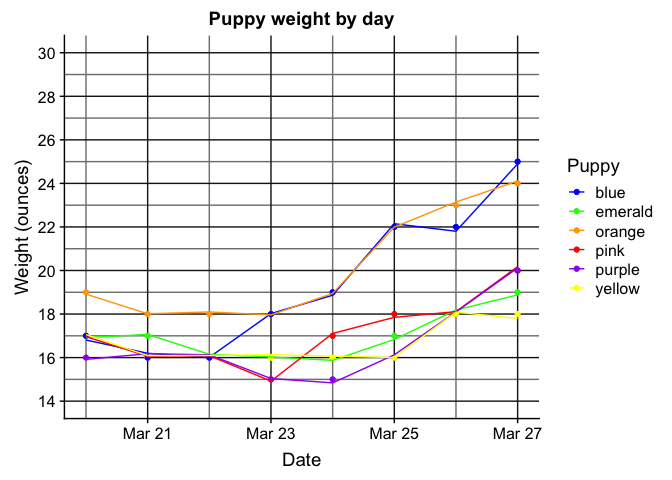
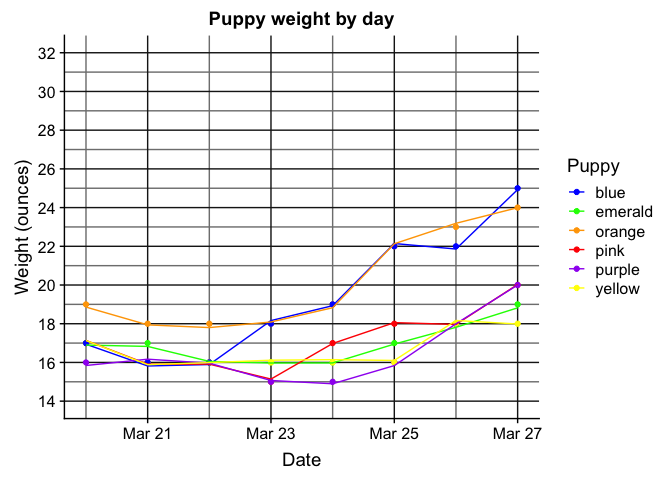
Removed 'inst/extdata' directory and moved the extdata/* files up to the 'inst/' level.

Changed region(s): [[0.0312, 0.1875, 0.8125, 0.8125], [0.0938, 0.125, 0.8125, 0.1562], [0.0625, 0.0938, 0.0938, 0.125]]

diff --git a/vignettes/PuppyWeightGain-2019.md b/vignettes/PuppyWeightGain-2019.md
@@ -46,8 +46,8 @@ library(ggplot2)
 
 There are two CSV files contained in this package:
 
-  - `inst/extdata/weights-2019/puppies-2019-weight-in-oz.csv`
-  - `inst/extdata/weights-2019/puppies-2019-sex.csv`
+  - `inst/weights-2019/puppies-2019-weight-in-oz.csv`
+  - `inst/weights-2019/puppies-2019-sex.csv`
 
 The puppies were weighed once daily on a digital kitchen scale, which
 measures to a fraction of an ounce, but we rounded to the nearest ounce.
@@ -70,7 +70,11 @@ weight by date for each individual.
 
 ``` r
 # Reads CSV and converts to tidy format.
-weights <- system.file("extdata", "weights-2019", "puppies-2019-weight-in-oz.csv", package = "codesamplerr") %>% 
+weights <- system.file(
+    "weights-2019", 
+    "puppies-2019-weight-in-oz.csv", 
+    package = "codesamplerr"
+  ) %>% 
   readr::read_csv() %>% 
   tidyr::gather(
     'pink', 'emerald', 'orange', 'purple', 'yellow', 'blue',
@@ -100,9 +104,9 @@ weights %>%
   scale_color_manual(values=puppy_id_to_color) +
   ggtitle("Puppy weight by day") +
   scale_y_continuous(
-    limits = c(14, 30), 
-    minor_breaks = seq(14, 30, 1),
-    breaks = seq(14, 30, by = 2)
+    limits = c(14, 32), 
+    minor_breaks = seq(14, 32, 1),
+    breaks = seq(14, 32, by = 2)
   ) + 
   theme(
     panel.grid.minor = element_line(colour="gray50", size=0.5),
@@ -133,11 +137,14 @@ gains %>%
 descending order? I want the previous plot to be ordered as: blue,
 orange, pink, … 🔺
 
-Plot the mean difference between weight gain by males and
-females.
+Plot the mean difference between weight gain by males and females.
 
 ``` r
-sex <- system.file("extdata", "weights-2019", "puppies-2019-sex.csv", package = "codesamplerr") %>% 
+sex <- system.file(
+    "weights-2019", 
+    "puppies-2019-sex.csv", 
+    package = "codesamplerr"
+  ) %>% 
   readr::read_csv()
 #> Parsed with column specification:
 #> cols(

diff --git a/vignettes/DistributionOfMeetupDays.md b/vignettes/DistributionOfMeetupDays.md
@@ -2,7 +2,7 @@ Distribution of Meetup Days for the [Portland R User Group
 Meetup](https://www.meetup.com/portland-r-user-group/)
 ================
 [Jim Tyhurst](https://www.jimtyhurst.com/)
-2019-03-26
+2019-03-28
 
   - [The Question](#the-question)
   - [Configuration](#configuration)
@@ -50,7 +50,7 @@ library(ggplot2)
 
 ## The Data
 
-[pdxRlang-meetup-days.csv](https://github.com/jimtyhurst/codesamplerr/blob/master/inst/extdata/pdxRlang-meetup-days.csv)
+[pdxRlang-meetup-days.csv](https://github.com/jimtyhurst/codesamplerr/blob/master/inst/pdxRlang-meetup-days.csv)
 is a one-column CSV file that has the dates for the last 3 years of
 Events listed on the [Portland R User
 Group](https://www.meetup.com/portland-r-user-group/) web site. I
@@ -94,7 +94,7 @@ Let’s read the data and add variables that will help us to group the
 data:
 
 ``` r
-events <- system.file("extdata", "pdxRlang-meetup-days.csv", package = "codesamplerr") %>% 
+events <- system.file("pdxRlang-meetup-days.csv", package = "codesamplerr") %>% 
   readr::read_csv() %>% 
   dplyr::mutate(
     DayOfWeek = lubridate::wday(Day),  # numeric, 1 = Sunday
